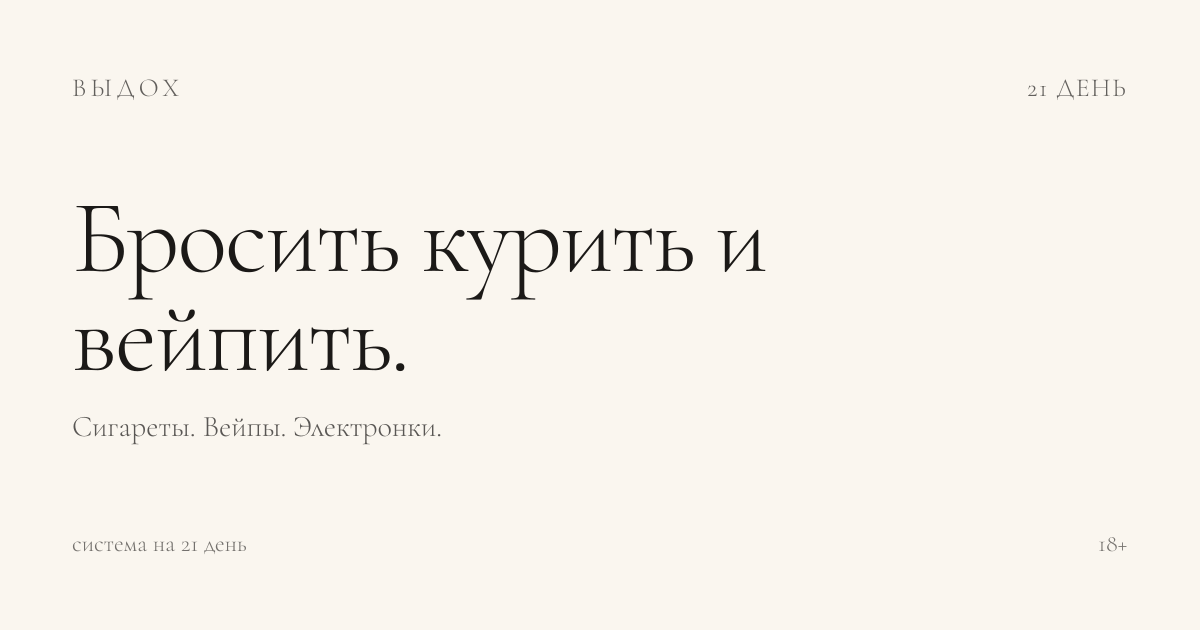
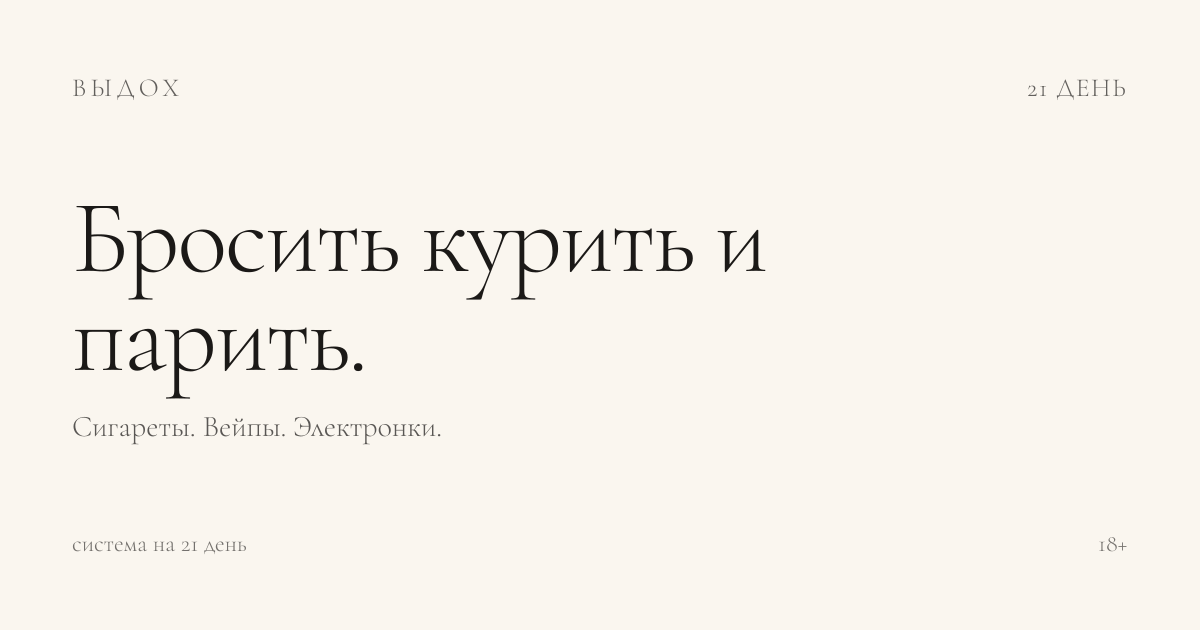
Use parit wording; refresh OG image

Changed region(s): [[0.0617, 0.4825, 0.3392, 0.6333]]

diff --git a/src/app/layout.tsx b/src/app/layout.tsx
@@ -13,7 +13,7 @@ export const metadata: Metadata = {
   // paths itself; the canonical stays absolute in the page metadata.
   metadataBase: new URL(new URL(SITE_URL).origin),
   title: {
-    default: "ВЫДОХ — бросить курить и вейпить без силы воли",
+    default: "ВЫДОХ — бросить курить и парить без силы воли",
     template: "%s — ВЫДОХ",
   },
   description:
@@ -23,13 +23,13 @@ export const metadata: Metadata = {
     siteName: "ВЫДОХ",
     locale: "ru_RU",
     url: SITE_URL,
-    title: "ВЫДОХ — бросить курить и вейпить без силы воли",
+    title: "ВЫДОХ — бросить курить и парить без силы воли",
     description:
       "Система на 21 день: сигареты, вейпы, электронки. Пережди пик, посчитай деньги, верни воздух.",
   },
   twitter: {
     card: "summary_large_image",
-    title: "ВЫДОХ — бросить курить и вейпить без силы воли",
+    title: "ВЫДОХ — бросить курить и парить без силы воли",
     description:
       "Система на 21 день: сигареты, вейпы, электронки. Пережди пик, посчитай деньги, верни воздух.",
   },

diff --git a/src/app/page.tsx b/src/app/page.tsx
@@ -29,7 +29,7 @@ const jsonLd = {
         addressCountry: "RU",
       },
       description:
-        "Система на 21 день, которая помогает бросить курить, вейпить и отказаться от электронных сигарет.",
+        "Система на 21 день, которая помогает бросить курить, парить и отказаться от электронных сигарет.",
     },
     {
       "@type": "WebSite",

diff --git a/src/components/site/hero.tsx b/src/components/site/hero.tsx
@@ -74,7 +74,7 @@ export function Hero() {
               </p>
 
               <HeroHeadline className="mt-6 max-w-[14ch] font-display text-display md:mt-8">
-                Бросить курить и вейпить.
+                Бросить курить и парить.
               </HeroHeadline>
 
               <p

diff --git a/STRUQ.md b/STRUQ.md
@@ -63,7 +63,7 @@ Motion: baseline; deviation (Warm Editorial's declared editorial-calm): entrance
 ## PLAN
 Pages: / (one-pager); anchors #method, #hours, #money, #price. Legal text lives in the footer.
 Arc (home):
-  1 HERO      [Hook]    h1 «Бросить курить и вейпить», cropped «ВЫДОХ» off the right edge
+  1 HERO      [Hook]    h1 «Бросить курить и парить», cropped «ВЫДОХ» off the right edge
                         (grid-break 1), breath arc crosses the section, calm ring; full svh,
                         8 to 10rem top air + the foot meta
   2 MANIFESTO [Orient]  one statement alone in 18rem of air (breather), naming cigarettes, vapes
